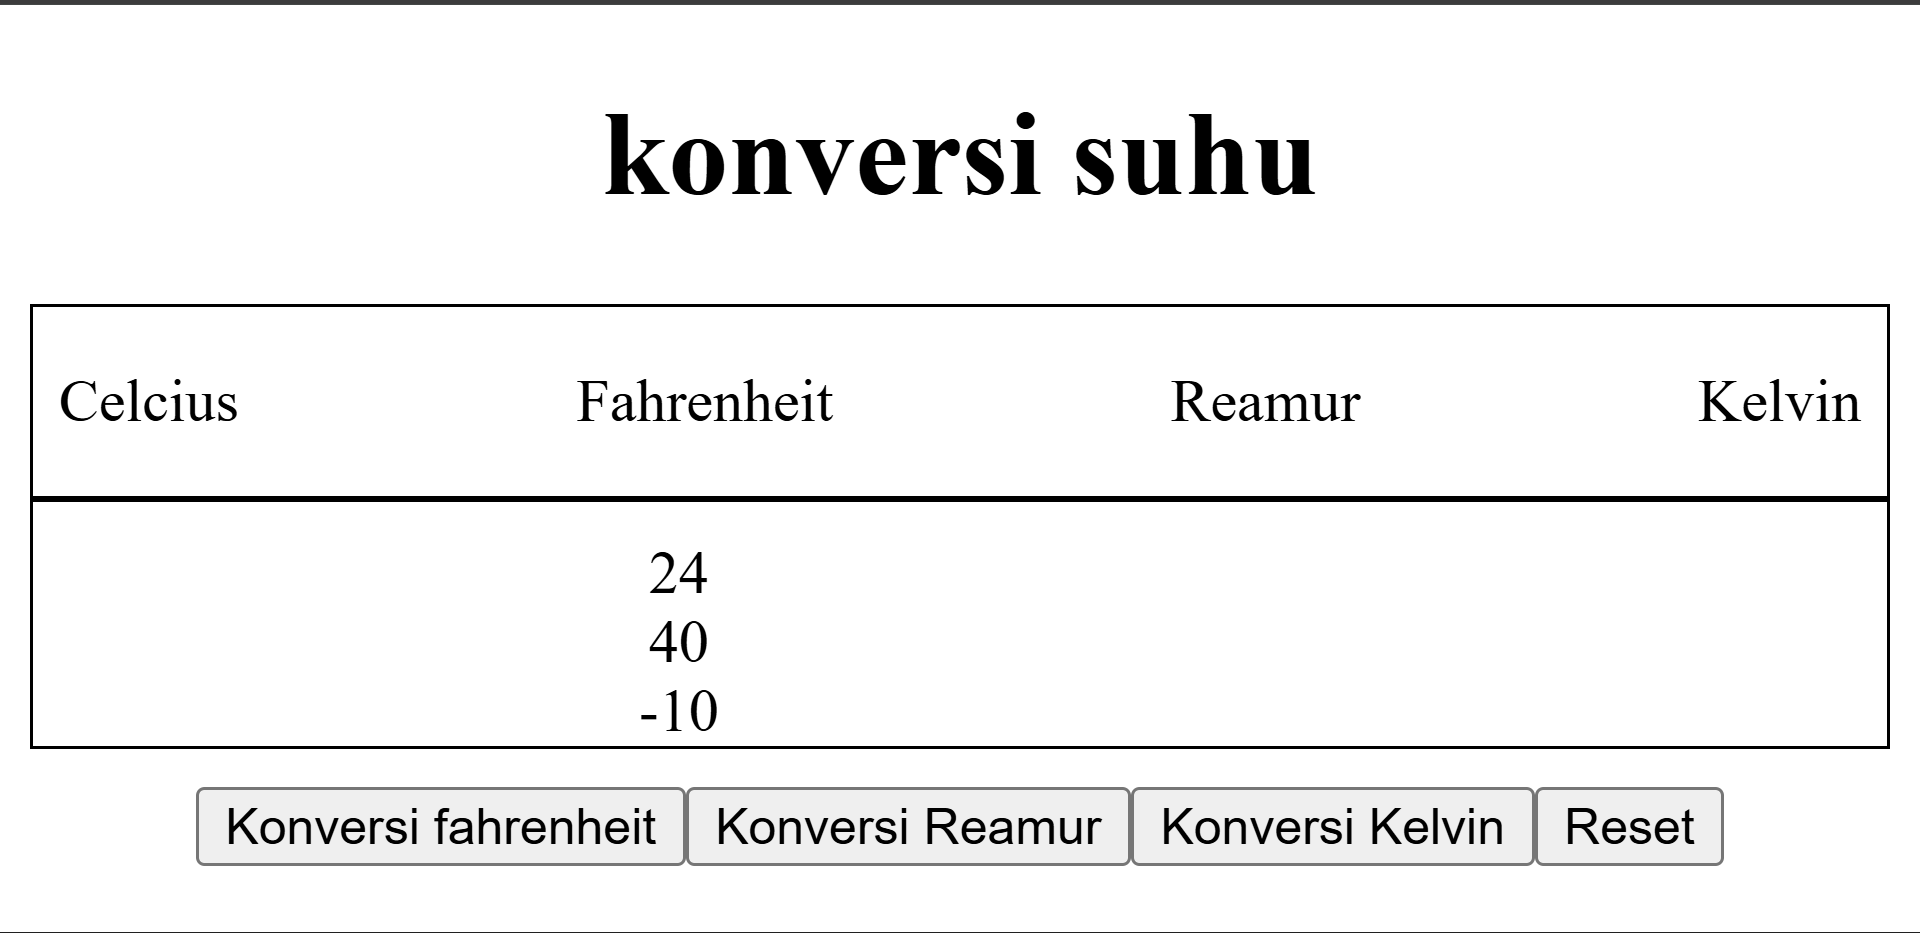
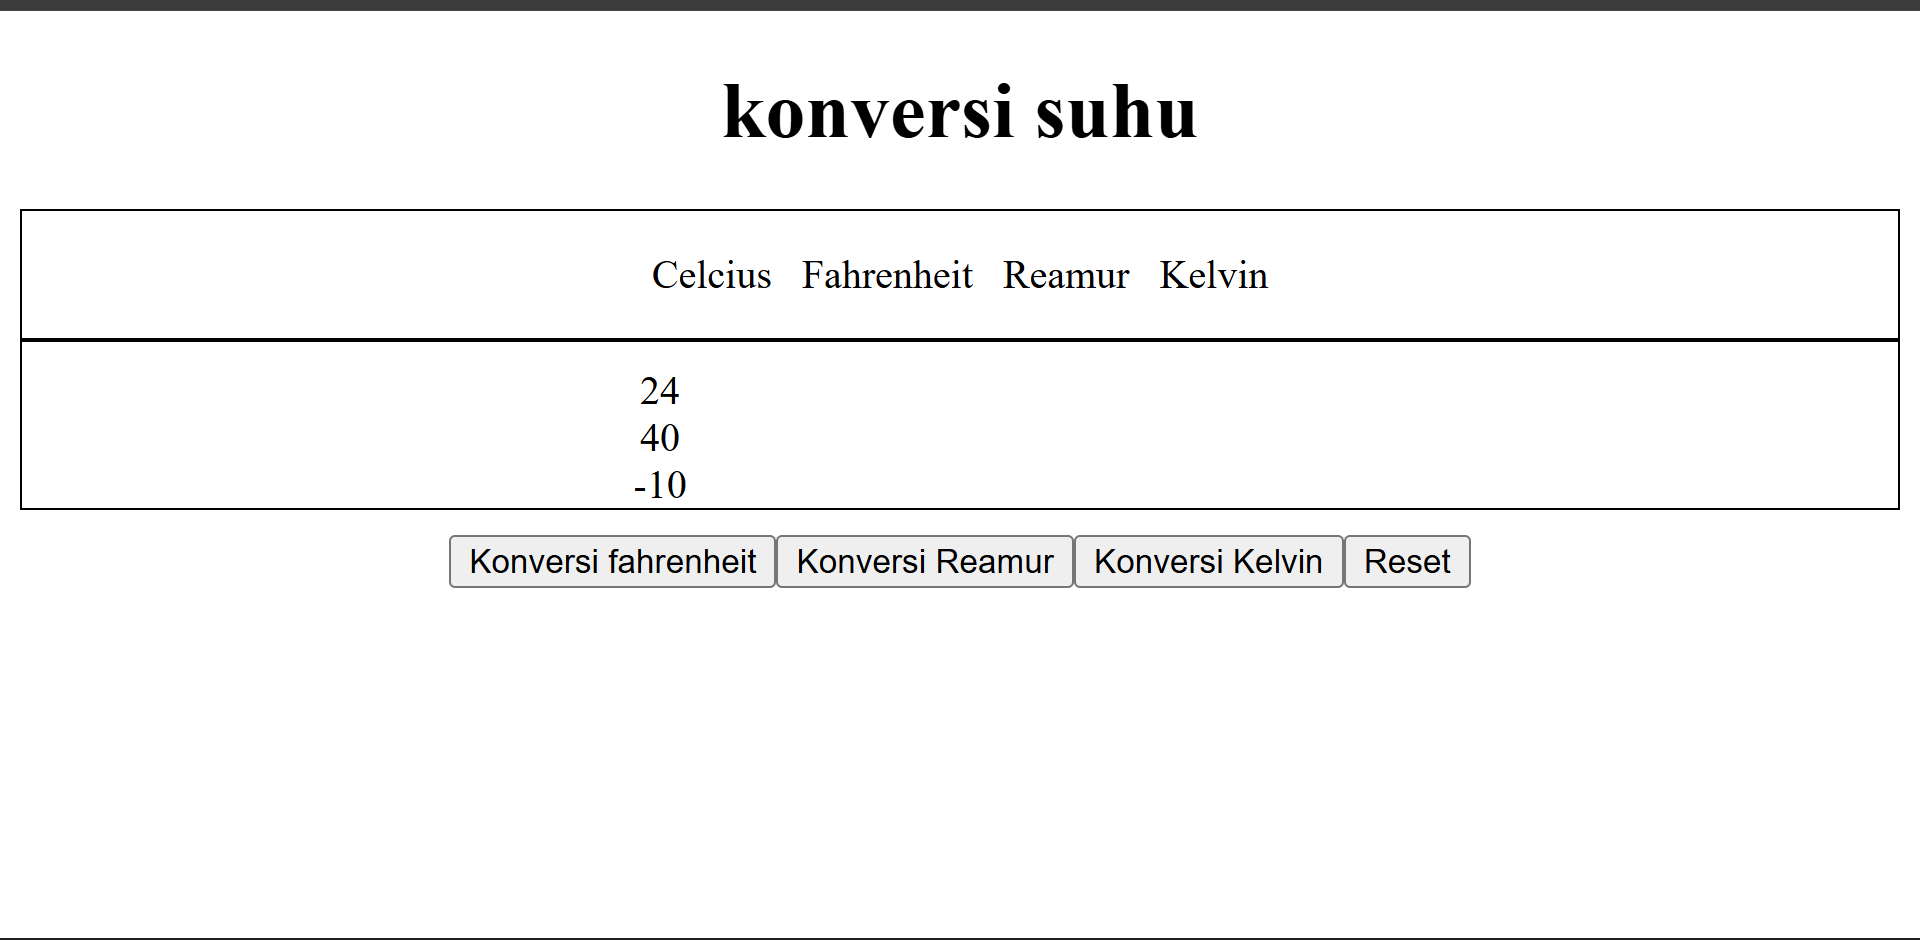
feat: edit image

diff --git a/style.css b/style.css
@@ -5,7 +5,7 @@ h1 {
 .suhu-wrap1 {
   display: flex;
   justify-content: center;
-  gap: 90px;
+  gap: 12px;
   border: 1px solid black;
   text-align: center;
 }
@@ -15,7 +15,7 @@ h1 {
   justify-content: center;
   text-align: center;
   padding-top: 10px;
-  gap: 50px;
+  gap: 80px;
   border: 1px solid black;
   text-align: center;
 }
